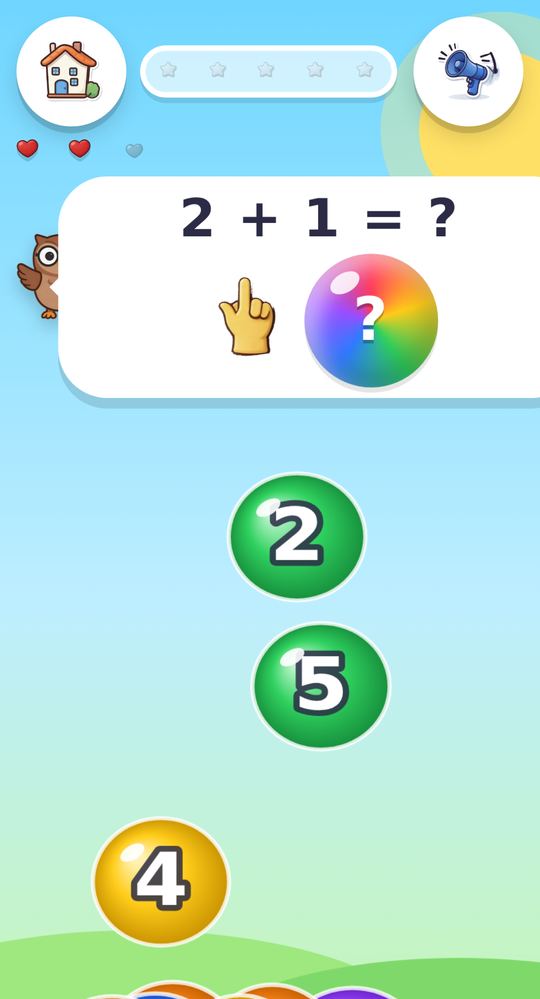
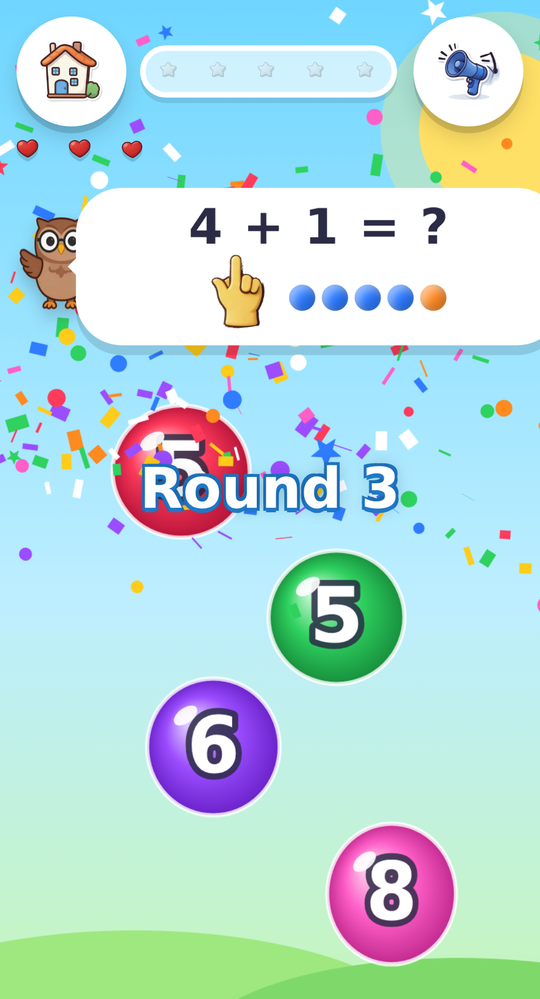
Release: Count the Dots
Easy sums are drawn as dots to count (see decisions/2026-09-13-count-the-dots.md).

- sw.js: cache bps-cache-v15 so installed phones pick up the new game.
- README: the Math row and the math test row describe the dots.
- decisions/: the debate record for this feature.
- screenshots/math-add.png refreshed, screenshots/math-sub.png added.
- A new question is never the same as the previous one (this also removes a
  pre-existing flake in test/math.js on round 1).

Claude-Session: https://claude.ai/code/session_01DuBLNV4JqtdZShGPyseqT7

diff --git a/index.html b/index.html
@@ -565,7 +565,8 @@ function buildSeq(){
 function tgt(){ return seq ? seq[progress % seq.length] : cur; }
 /* ---------- math problems ---------- */
 const ri=(a,b)=>a+((Math.random()*(b-a+1))|0);
-function newProblem(){
+function newProblem(){ const prev=prob&&prob.text; for(let k=0;k<8;k++){ rollProblem(); if(prob.text!==prev) break; } }   // never the same question twice in a row
+function rollProblem(){
   const hi=cur.hi[diff==='easy'?0:diff==='hard'?1:2];
   let kind=cur.kind; if(kind==='mix') kind=pick(['add','sub','miss','mul']);
   let a,b,ans,text;

diff --git a/sw.js b/sw.js
@@ -1,5 +1,5 @@
 /* Bubble Pop Safari - cache-first service worker */
-const CACHE = 'bps-cache-v14';
+const CACHE = 'bps-cache-v15';
 const FILES = ['./', './index.html', './manifest.webmanifest', './icon-192.png', './icon-512.png',
   './art/lion.webp', './art/monkey.webp', './art/elephant.webp', './art/panda.webp', './art/tiger.webp', './art/frog.webp',
   './art/koala.webp', './art/zebra.webp', './art/giraffe.webp', './art/hippo.webp', './art/owl.webp', './art/bomb.webp',

diff --git a/decisions/2026-09-13-count-the-dots.md b/decisions/2026-09-13-count-the-dots.md
@@ -1,0 +1,84 @@
+# Count the Dots: easy sums the child can count
+
+Date: 2026-09-13   Focus: open   Debaters: child, teacher, parent, engineer
+
+## Question
+With three lives on every level, what one feature should be built next so that the game teaches more and stays fun for a
+4-to-8-year-old, without anything on screen giving the answer away?
+
+## Proposals
+| # | Title | From | Size | Points | Supports / Objections |
+| - | ----- | ---- | ---- | ------ | --------------------- |
+| A | Count the Dots (merge of 2 "Count the Dots" and 5 "add-with-dots") | teacher, engineer | S | 9 | 4 / 0 |
+| B | The One You Missed Comes First (merge of 1 "Ask Me Again" and 6) | teacher, engineer | S | 7 | 4 / 0 |
+| 7 | Colour-Safe Rounds | parent | S | 6 | 2 / 1 |
+| 3 | Lucky Star Bubble | child | M | 4 | 0 / 3 |
+| 8 | Slower Bubbles After a Lost Level | parent | S | 2 | 1 / 2 |
+| 4 | Poke the Owl | child | S | 0 | 3 / 0 |
+
+Points: 3/2/1 for first/second/third on each of the four ballots, plus one for a round-1 "fight for". A cluster merge
+adopted by two or more seats carries its members' points. No vetoes were filed.
+
+## Decision
+**Count the Dots** - In easy Math, a sum the child cannot yet do in the head is drawn under the equation as dots to count:
+"3 + 2 = ?" shows three blue dots and two orange dots; "5 − 2 = ?" shows five dots with the last two faded. The child
+counts with a finger, then finds the numeral among the bubbles. What is learned is counting-all and counting-on, the two
+strategies children use before they know number bonds, and the match from a quantity to a numeral.
+
+Why it won: it topped the vote (9 points, first on the engineer's ballot, second on the child's and the parent's, third
+on the teacher's; every seat folded its own variant into it) and the judge follows the vote. The deciding argument was
+the engineer's and the parent's together: a four-year-old who cannot read "3 + 2" loses three hearts on the add rounds
+by tapping numerals at random, which since the three-lives change is a wall two rounds into Math; dots turn the guess
+into thinking, as the accepted "Find 4" dots already do, and the change is DOM-only (no frame loop, save format or art),
+so it lands green this run. The judge settles two points inside the cluster: dots are for easy only (three seats; hard
+and expert keep the bare equation), and subtraction is included with faded dots (teacher and engineer: counting what is
+left is the thinking, exactly as counting both groups is for addition). Missing-number and times tables get no dots.
+
+Built as specified. Two things happened during the build: the builder fixed a pre-existing frame-loop bug it hit while
+testing (a just-spawned target bubble, at y = H + r + 8, was not counted as visible, so a new question with no answer on
+screen force-spawned a target every frame up to the cap; now at most `minT` are forced), and test/lives.js judges a
+bubble right or wrong by its number or word against the question rather than by the target flag, which lags a pop by a
+frame; `noGiveaway()` is unchanged. The free-play three-tries reveal shares the same `answerHtml()` path but is not
+driven by the test, because free play needs all ten rounds unlocked (see "For next time"). At release the math test
+flaked once on a pre-existing 3% case (round 1 dealt the same "Find n" three times in four); the game now never asks the
+same question twice in a row, which is also what a child expects.
+
+Acceptance criteria (the builder is held to these):
+- In easy difficulty, Math mode (rounds and free play alike), when the current question is an addition with a + b <= 10,
+  the owl's bubble shows the equation text as today ("3 + 2 = ?") and, in the icons row, a `.dots` group of a + b dots:
+  the first a dots in the usual blue, the next b dots in a second colour (class `b`, orange), in place of the "?" bubble.
+  `state().problem` exposes `a` and `b`.
+- In easy difficulty, when the current question is a subtraction with a <= 10, the icons row shows a dots with the
+  last b of them faded (class `gone`), in place of the "?" bubble.
+- Missing-number ("3 + ? = 7") and multiplication questions, and any sum over 10, keep today's "?" bubble. "Find n" keeps
+  today's dots. Hard and expert never show sum dots. The Animals and Words modes are untouched.
+- The layout holds: at most two rows of dots (10 dots), no taller than the existing "Find 10" bubble, so the HUD does not
+  push into the play area on an iPhone SE; nothing scrolls.
+- Learning rule: the dots draw the question, never the answer: the "?" stays in the text, no dot is marked as the result,
+  nothing appears after a delay, no bubble glows. On a failure the reveal goes through `answerHtml()` and shows the same
+  dots plus the result ("3 + 2 = 5" with the answer bubble), as today's reveal does for other questions.
+- Test: test/math.js gains checks that easy round 3 shows `.dots i` count == a + b with `.dots i.b` count == b and no digit
+  in any `.q`; easy round 5 shows a dots with `.gone` count == b; hard round 3 shows no `.dots`; and that the reveal after
+  three hearts (or the free-play three tries) shows the result. test/lives.js `noGiveaway` keeps passing unchanged.
+
+## Rejected and deferred
+- **The One You Missed Comes First (1+6)** - deferred: every seat supports it (retrieval right after the reveal); it lost
+  on buildability this run (its test needs lost rounds and 5 s waits, and free play must be reachable in a test). Build
+  it next, in memory only, Math and Words, cleared on mode/difficulty/language change but not in goHome (the teacher's
+  catch: loseRound goes home before Play sees it).
+- **Colour-Safe Rounds** - deferred: the parent's fairness point stands (about one boy in twelve cannot separate green
+  from orange, and a wrong tap now costs a heart), and the engineer confirmed it drops into the distractor loop; the
+  teacher's objection that red-versus-orange is itself the colour lesson means it should return as a per-child setting
+  or as a shape-per-colour aid, not a global table.
+- **Lucky Star Bubble** - rejected: the teacher (a tap on what shines, the opposite of "read the owl, then choose"), the
+  parent (confetti in a waiting room, a second score to chase, a save-format change) and the engineer (it breaks every
+  test's wrong-bubble picker; honest size M) all objected.
+- **Slower Bubbles After a Lost Level** - rejected: the engineer showed a hidden speed multiplier lets a 3-star expert
+  round be earned at 70% speed while the sticker book says "Perfect!"; the child would not feel it. Acceptable only
+  cut to easy, where it is barely observable.
+- **Poke the Owl** - deferred: harmless and liked by three seats as a "say it again" for a child who looked away, but no
+  seat ranked it; a filler for a run with a small remaining budget.
+
+## For next time
+Build "The One You Missed Comes First" (in-memory redo of the failed question, Math and Words, free play two questions
+later); its test needs a `__bps.unlockAll()` helper so free play is reachable. Then look at Colour-Safe Rounds as a setting.

diff --git a/README.md b/README.md
@@ -75,7 +75,7 @@ ngrok http 8080                  # terminal 2, copy the https URL
 | `test/smoke.js` | Playwright playthrough test (easy mode) used during development. |
 | `test/lives.js` | Playwright test for the three lives in easy, all modes: every wrong tap costs a heart, a right pop does not give one back, the third miss reveals the answer exactly once and ends the level (home screen, nothing recorded, Play restarts it from zero), nothing given away during play. |
 | `test/hard.js` | Playwright test for hard and expert mode: hearts, bombs, the failed level, stars, ordered goals, timer, colour shifts. |
-| `test/math.js` | Playwright test for math mode: every round kind, answers checked, wrong taps, separate progress, hard mode with hearts and bombs. |
+| `test/math.js` | Playwright test for math mode: every round kind, answers checked, the dots drawn for easy sums (and none for missing numbers, times tables, sums over 10 or hard), nothing given away during play, the reveal after three misses, separate progress, hard mode with hearts and bombs. |
 | `test/words.js` | Playwright test for words mode: language picker, picture and color rounds, reverse rounds, no answer on screen while playing, the reveal after three wrong tries and after a lost round, separate progress, expert. |
 | `CLAUDE.md` | The purpose of the app and the rules every change must follow (the learning rule above, art, tests, deployment). |
 | `screenshots/` | Home screen, rounds in each mode, a celebration. |
